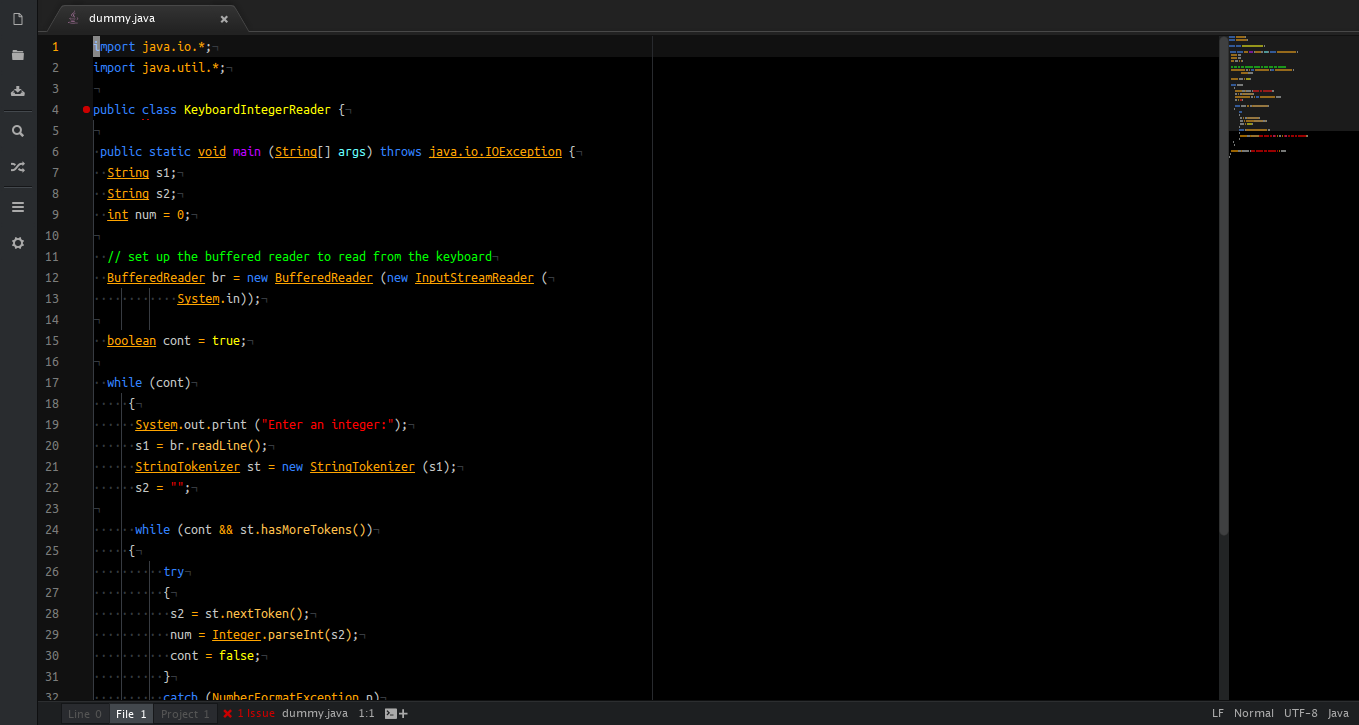
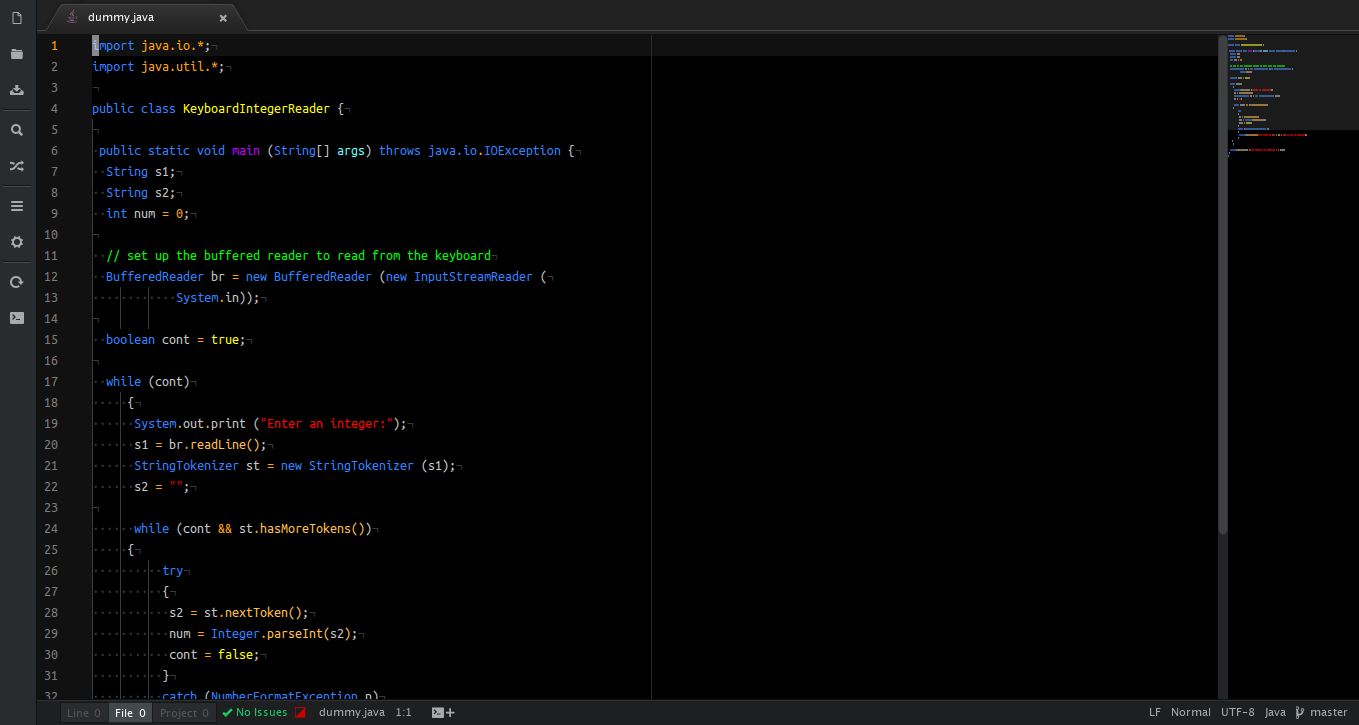
added lang-specific styles, fixed colors, bracket-highlighting

diff --git a/styles/base.less b/styles/base.less
@@ -76,12 +76,11 @@ atom-text-editor .search-results .marker.current-result .region,
     color: @blue;
 
     &.todo {
-        color: @yellow;
+        color: @blue;
     }
 
     &.type {
-        color: @orange;
-        text-decoration: underline;
+        color: @blue;
 
         &.function,
         &.class {
@@ -135,25 +134,20 @@ atom-text-editor .search-results .marker.current-result .region,
     &.other {
         color: @pink;
 
-        &.php {
-            color: @syntax-text-color;
-        }
         &.module {
             color: @orange;
         }
     }
 }
 .invalid.illegal {
-    background-color: @syntax-background-color;
     color: @red;
+    border-bottom: 1px dotted @red;
 }
 .string {
     color: @red;
+
     &.regexp {
         color: @red;
-        .source.ruby.embedded {
-            color: @orange;
-        }
     }
     &.other.link {
         color: @blue;
@@ -207,10 +201,6 @@ atom-text-editor .search-results .marker.current-result .region,
     }
     &.function {
         color: @blue;
-
-        &.any-method {
-            color: @blue;
-        }
     }
 }
 .entity {
@@ -224,8 +214,16 @@ atom-text-editor .search-results .marker.current-result .region,
     &.name.type {
         color: @yellow;
     }
-    &.other.inherited-class {
-        color: @purple;
+    &.other {
+        &.inherited-class {
+            color: @purple;
+        }
+        &.attribute-name {
+            color: @orange;
+        }
+        &.id {
+            color: @cyan;
+        }
     }
     &.name.class,
     &.name.type.class {
@@ -238,21 +236,13 @@ atom-text-editor .search-results .marker.current-result .region,
         color: @blue;
         text-decoration: none;
     }
-    &.other.attribute-name {
-        color: @orange;
-
-        &.id {
-            color: @pink;
-        }
-    }
 }
 .meta {
     &.class {
         color: @syntax-text-color;
     }
     &.method-call > .method,
-    &.method-call > .punctuation,
-    &.function-call.php {
+    &.method-call > .punctuation {
         color: @light-orange;
     }
     &.link {
@@ -312,4 +302,11 @@ atom-text-editor .search-results .marker.current-result .region,
 atom-text-editor[mini] .scroll-view,
 :host([mini]) .scroll-view {
     padding-left: 1px;
+}
+
+/** REF: https://github.com/Urastor/dark-uri-syntax (Thank you!) **/
+atom-text-editor::shadow .highlight.bracket-matcher .region {
+    border-top: 2px solid @orange;
+    border-bottom: 2px solid @orange;
+    z-index: 1;
 }

diff --git a/styles/languages/c.less b/styles/languages/c.less
@@ -1,0 +1,16 @@
+.c {
+    &.punctuation {
+        &.definition {
+            &.parameters {
+                color: @light-orange;
+            }
+        }
+    }
+    &.support {
+        &.function {
+            &.any-method {
+                color: @light-orange;
+            }
+        }
+    }
+}

diff --git a/styles/languages/php.less b/styles/languages/php.less
@@ -1,0 +1,13 @@
+.php {
+    &.meta {
+        &.function-call {
+            color: @light-orange;
+        }
+    }
+
+    &.variable {
+        &.other {
+            color: @syntax-text-color;
+        }
+    }
+}

diff --git a/styles/languages/ruby.less b/styles/languages/ruby.less
@@ -1,0 +1,11 @@
+.ruby {
+    &.string {
+        &.regex {
+            &.source {
+                &.embedded {
+                    color: @orange;
+                }
+            }
+        }
+    }
+}

diff --git a/index.less b/index.less
@@ -1,1 +1,6 @@
 @import "./styles/base.less";
+
+// language specific styles.
+@import "./styles/languages/c.less";
+@import "./styles/languages/php.less";
+@import "./styles/languages/ruby.less";

diff --git a/CHANGELOG.md b/CHANGELOG.md
@@ -2,6 +2,13 @@
 
 ## Current version
 
+### 1.6.4
+
+*   added language specific styles
+*   fixed colors for java, cpp and php
+*   added bracket highlighting (REF: [Urastor/dark-uri-synta](https://github.com/Urastor/dark-uri-syntax))
+*   updated screenshots for java and php
+
 ### 1.6.3
 
 *   changed python decorator color
